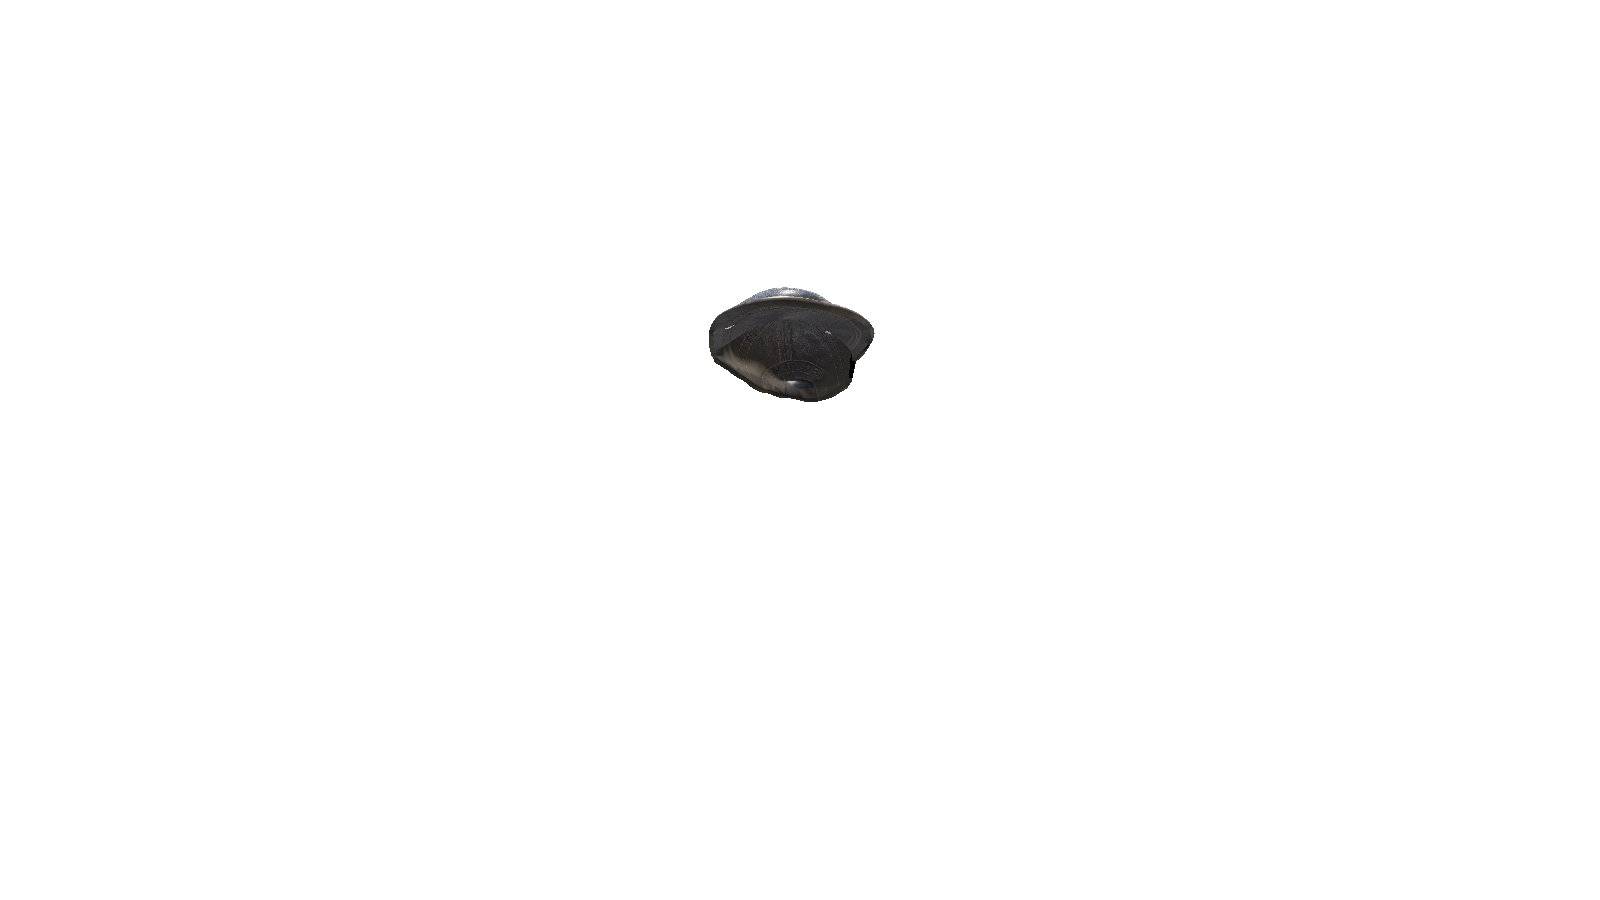
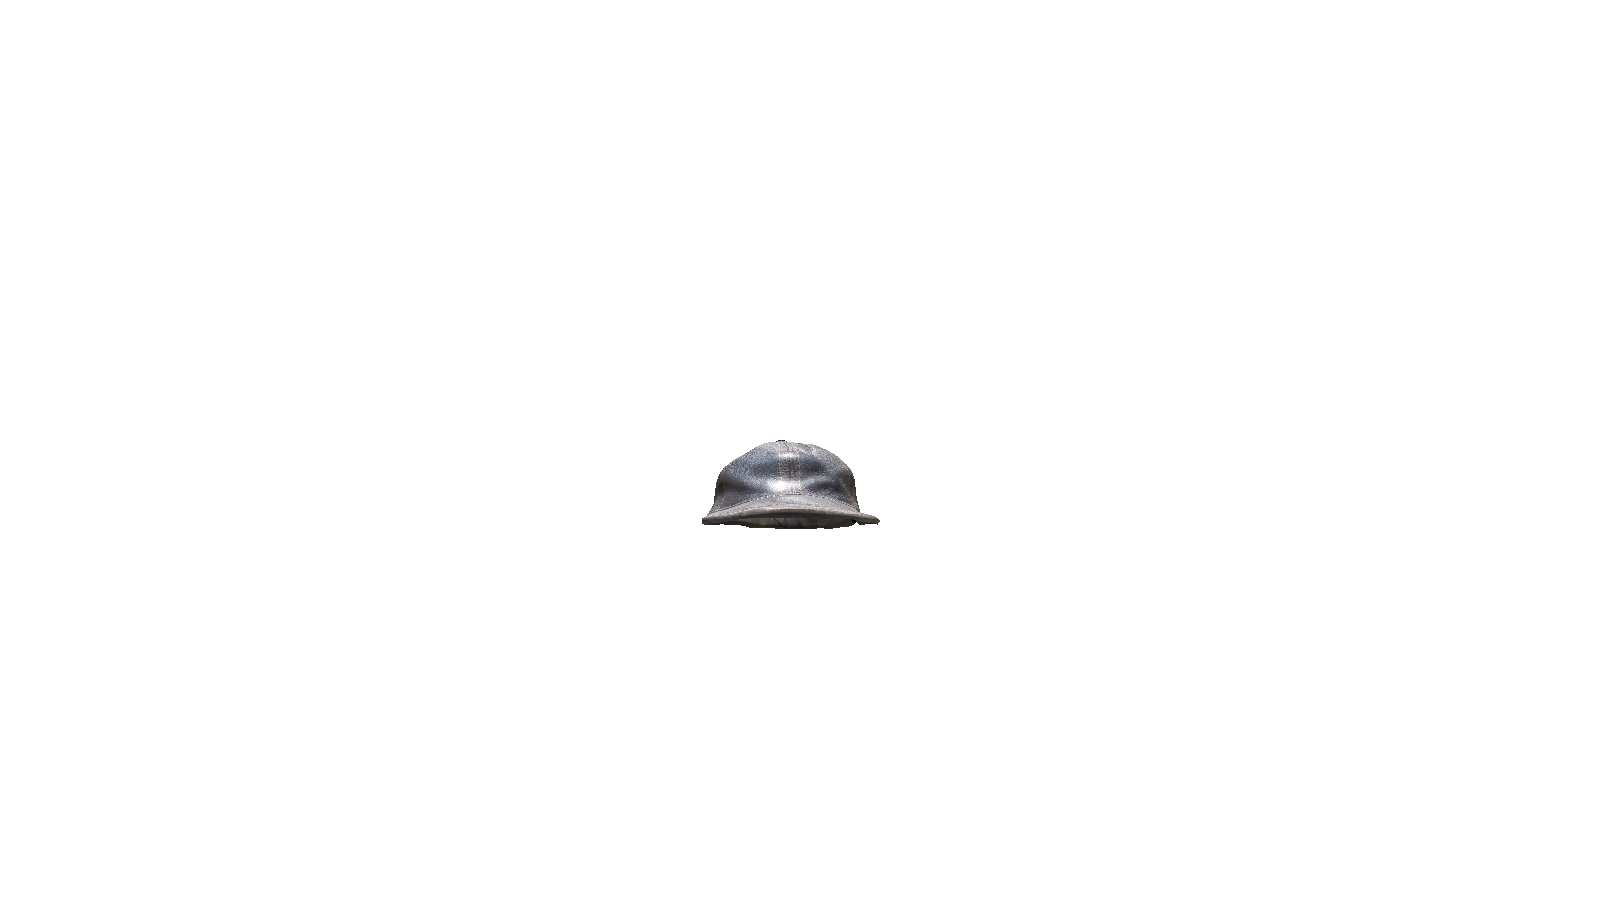
Starting progress to read MTL files and further enhance the obj and texture reading

Changed region(s): [[0.4375, 0.3111, 0.5625, 0.5911]]

diff --git a/RaytracerV07/src/edu/up/isgc/raytracer/lighting/Material.java b/RaytracerV07/src/edu/up/isgc/raytracer/lighting/Material.java
@@ -1,0 +1,113 @@
+package edu.up.isgc.raytracer.lighting;
+
+import java.awt.image.BufferedImage;
+import java.util.HashMap;
+import java.util.Map;
+
+public class Material {
+    private float specular = 0;     //ks - Ns
+    private float shininess = 0;    //p
+    private float ambient = 0;      // ka - Ka
+    private float reflectivity = 0;
+    private float refraction = 0;   // Ni
+    private float transparency = 0; // d  - Tr
+    private BufferedImage textureMap = null;
+    private String name = null;
+    private static Map<String, Material> mtlDictionary = new HashMap<>();
+
+    public Material(float specular, float shininess, float ambient, float reflectivity, float refraction, float transparency, BufferedImage textureMap, String name) {
+        this.setSpecular(specular);
+        this.setShininess(shininess);
+        this.setAmbient(ambient);
+        this.setReflectivity(reflectivity);
+        this.setRefraction(refraction);
+        this.setTransparency(transparency);
+        this.setTextureMap(textureMap);
+        this.setName(name);
+    }
+
+    public Material(float specular, float shininess, float ambient, float reflectivity, float refraction, float transparency) {
+        this.setSpecular(specular);
+        this.setShininess(shininess);
+        this.setAmbient(ambient);
+        this.setReflectivity(reflectivity);
+        this.setRefraction(refraction);
+        this.setTransparency(transparency);
+    }
+
+    public float getSpecular() {
+        return specular;
+    }
+
+    public void setSpecular(float specular) {
+        this.specular = specular;
+    }
+
+    public float getShininess() {
+        return shininess;
+    }
+
+    public void setShininess(float shininess) {
+        this.shininess = shininess;
+    }
+
+    public float getAmbient() {
+        return ambient;
+    }
+
+    public void setAmbient(float ambient) {
+        this.ambient = ambient;
+    }
+
+    public float getReflectivity() {
+        return reflectivity;
+    }
+
+    public void setReflectivity(float reflectivity) {
+        this.reflectivity = reflectivity;
+    }
+
+    public float getRefraction() {
+        return refraction;
+    }
+
+    public void setRefraction(float refraction) {
+        this.refraction = refraction;
+    }
+
+    public float getTransparency() {
+        return transparency;
+    }
+
+    public void setTransparency(float transparency) {
+        this.transparency = transparency;
+    }
+
+    public BufferedImage getTextureMap() {
+        return textureMap;
+    }
+
+    public void setTextureMap(BufferedImage textureMap) {
+        this.textureMap = textureMap;
+    }
+
+    public String getName() {
+        return name;
+    }
+
+    public void setName(String name) {
+        this.name = name;
+    }
+
+    public static Map<String, Material> getMtlDictionary() {
+        return mtlDictionary;
+    }
+
+    public static void setMtlDictionary(Map<String, Material> mtlDictionary) {
+        Material.mtlDictionary = mtlDictionary;
+    }
+
+    public static Material findByName(String name){
+        return Material.getMtlDictionary().get(name);
+    }
+}

diff --git a/RaytracerV07/src/edu/up/isgc/raytracer/files/FileRead.java b/RaytracerV07/src/edu/up/isgc/raytracer/files/FileRead.java
@@ -1,5 +1,6 @@
 package edu.up.isgc.raytracer.files;
 
+import edu.up.isgc.raytracer.lighting.Material;
 import edu.up.isgc.raytracer.shapes.models.Face;
 import edu.up.isgc.raytracer.shapes.models.NormalVertex;
 import edu.up.isgc.raytracer.shapes.models.Texture;
@@ -9,10 +10,7 @@ import java.io.BufferedReader;
 import java.io.File;
 import java.io.FileReader;
 import java.io.IOException;
-import java.util.ArrayList;
-import java.util.Arrays;
-import java.util.HashMap;
-import java.util.Objects;
+import java.util.*;
 import java.util.regex.Matcher;
 import java.util.regex.Pattern;
 
@@ -22,21 +20,40 @@ public class FileRead {
         ArrayList<String> faceList = new ArrayList<>();
         ArrayList<String> textureList = new ArrayList<>();
         ArrayList<String> vertexNormalList = new ArrayList<>();
+        Map<int[], Material> materialMap = new HashMap<>();
 
         File file = new File(filePath);
         Pattern vertex = Pattern.compile("^v[^a-zA-Z]*");
         Pattern texture = Pattern.compile("^vt[^a-zA-Z]*");
         Pattern normal = Pattern.compile("^vn[^a-zA-Z]*");
         Pattern face = Pattern.compile("^f[^a-zA-Z]*");
+        Pattern mtl = Pattern.compile("^usemtl[^a-zA-Z]*");
 
         try (BufferedReader br = new BufferedReader(new FileReader(filePath))) {
             String line;
+            int mtlFaceCount = 0;
+            int startCount = 0;
+            boolean newFace = true;
+            String materialName = "";
             while ((line = br.readLine()) != null) {
                 //System.out.println(line);
                 if(line.matches(vertex.pattern())) { vertexList.add(line); }
                 else if(line.matches(face.pattern())){ faceList.add(line); }
                 else if(line.matches(texture.pattern())){ textureList.add(line); }
                 else if(line.matches(normal.pattern())){ vertexNormalList.add(line); }
+                else if(line.matches(mtl.pattern())){
+                    if(newFace) {
+                        newFace = false;
+                        startCount = mtlFaceCount;
+                        materialName = line;
+                    }
+                    else{
+                        materialMap.put(new int[]{startCount, mtlFaceCount}, Material.findByName(materialName));
+                        startCount = mtlFaceCount;
+                        materialName = line;
+                    }
+                }
+                mtlFaceCount++;
             }
         } catch (IOException e) {
             e.printStackTrace();

diff --git a/RaytracerV07/src/edu/up/isgc/raytracer/Raytracer.java b/RaytracerV07/src/edu/up/isgc/raytracer/Raytracer.java
@@ -31,7 +31,8 @@ public class Raytracer {
         String path2 = new File("W:\\-UP_PC-\\4th_SEMESTER\\MMCG_FOURTH_SEMESTER_RLG\\Raytracer\\LocalFiles\\ObjFiles\\Ring.obj").getAbsolutePath();
         //String path = new File("W:\\-UP_PC-\\4th_SEMESTER\\MMCG_FOURTH_SEMESTER_RLG\\Raytracer\\LocalFiles\\ObjFiles\\Ring.obj").getAbsolutePath();
         //String path = new File("W:\\-UP_PC-\\4th_SEMESTER\\MMCG_FOURTH_SEMESTER_RLG\\Raytracer\\LocalFiles\\ObjFiles\\SmallTeapot.obj").getAbsolutePath();
-        String path = new File("\\W:\\-UP_PC-\\4th_SEMESTER\\MMCG_FOURTH_SEMESTER_RLG\\RayTracer_Objs\\Hat.obj").getAbsolutePath();
+        //String path = new File("W:\\-UP_PC-\\4th_SEMESTER\\MMCG_FOURTH_SEMESTER_RLG\\RayTracer_Objs\\optimized-3d-capturedphotogrammetry-hat\\Hat.obj").getAbsolutePath();
+        String path = new File("W:\\-UP_PC-\\4th_SEMESTER\\MMCG_FOURTH_SEMESTER_RLG\\RayTracer_Objs\\carl-manfred-detroit-become-human\\CarlManfred.obj").getAbsolutePath();
         //String path = new File("W:\\-UP_PC-\\4th_SEMESTER\\MMCG_FOURTH_SEMESTER_RLG\\Raytracer\\LocalFiles\\ObjFiles\\shark1.obj").getAbsolutePath();
 
         // Create scene with objects
@@ -43,6 +44,7 @@ public class Raytracer {
         //scene.addObject(new Sphere(new Vector3D(0, -1, 0), 1.5, Color.yellow));
         //scene.addObject(new Triangle(new Vector3D(0.4, 0, -3), new Vector3D(0.4, 0.5, -3), new Vector3D(1.1, 0, -3), Color.GREEN));
 
+        //BufferedImage texture = ImageIO.read(new File("W:\\-UP_PC-\\4th_SEMESTER\\MMCG_FOURTH_SEMESTER_RLG\\RayTracer_Objs\\optimized-3d-capturedphotogrammetry-hat\\textures\\Hat_Albedo.png"));
         BufferedImage texture = ImageIO.read(new File("W:\\-UP_PC-\\4th_SEMESTER\\MMCG_FOURTH_SEMESTER_RLG\\RayTracer_Objs\\optimized-3d-capturedphotogrammetry-hat\\textures\\Hat_Albedo.png"));
 
         //Polygon polygon = new Polygon(path, new Color(220, 20, 60), 0.4, 0.3, texture);
@@ -51,7 +53,7 @@ public class Raytracer {
 
 
         polygon.rotate(0, -180, 0);
-        polygon.translate(0, 0.5f, 0f);
+        polygon.translate(0, -0.5f, 0f);
         polygon.scale(2f, 2f, 2f);
         polygon.rotate(10, 0, 0);
 

diff --git a/RaytracerV07/src/edu/up/isgc/raytracer/shapes/models/Polygon.java b/RaytracerV07/src/edu/up/isgc/raytracer/shapes/models/Polygon.java
@@ -4,6 +4,7 @@ import edu.up.isgc.raytracer.Intersection;
 import edu.up.isgc.raytracer.Ray;
 import edu.up.isgc.raytracer.Vector3D;
 import edu.up.isgc.raytracer.files.FileRead;
+import edu.up.isgc.raytracer.lighting.Material;
 import edu.up.isgc.raytracer.shapes.Object3D;
 import edu.up.isgc.raytracer.shapes.Triangle;
 
@@ -11,12 +12,15 @@ import java.awt.*;
 import java.awt.image.BufferedImage;
 import java.util.ArrayList;
 import java.util.Arrays;
+import java.util.HashMap;
+import java.util.Map;
 
 public class Polygon {
     private ArrayList<Triangle> shape;
     private ArrayList<Double[]> vertexes = new ArrayList<>();
     private ArrayList<Double[]> normalVertexes = new ArrayList<>();
     private ArrayList<Double[]> textures = new ArrayList<>();
+
     private double refraction;
 
     private BufferedImage textureMap;

diff --git a/RaytracerV07/src/edu/up/isgc/raytracer/shapes/models/Face.java b/RaytracerV07/src/edu/up/isgc/raytracer/shapes/models/Face.java
@@ -1,12 +1,18 @@
 package edu.up.isgc.raytracer.shapes.models;
 
+import edu.up.isgc.raytracer.lighting.Material;
+
 import java.util.ArrayList;
+import java.util.HashMap;
+import java.util.Map;
 
 public class Face {
     private static ArrayList<Integer[]> faces = new ArrayList<>();
     private static ArrayList<Integer[]> faceTextures = new ArrayList<>();
     private static ArrayList<Integer[]> faceNormals = new ArrayList<>();
     private static ArrayList<Integer[][]> wholeFaces = new ArrayList<>();
+    Map<int[], Material> materialMap = new HashMap<>();
+
     public Face (Integer[][] face){
         Face.addFace(face);
     }

diff --git a/RaytracerV07/src/edu/up/isgc/raytracer/files/MTLReader.java b/RaytracerV07/src/edu/up/isgc/raytracer/files/MTLReader.java
@@ -1,0 +1,4 @@
+package edu.up.isgc.raytracer.files;
+
+public class MTLReader {
+}
